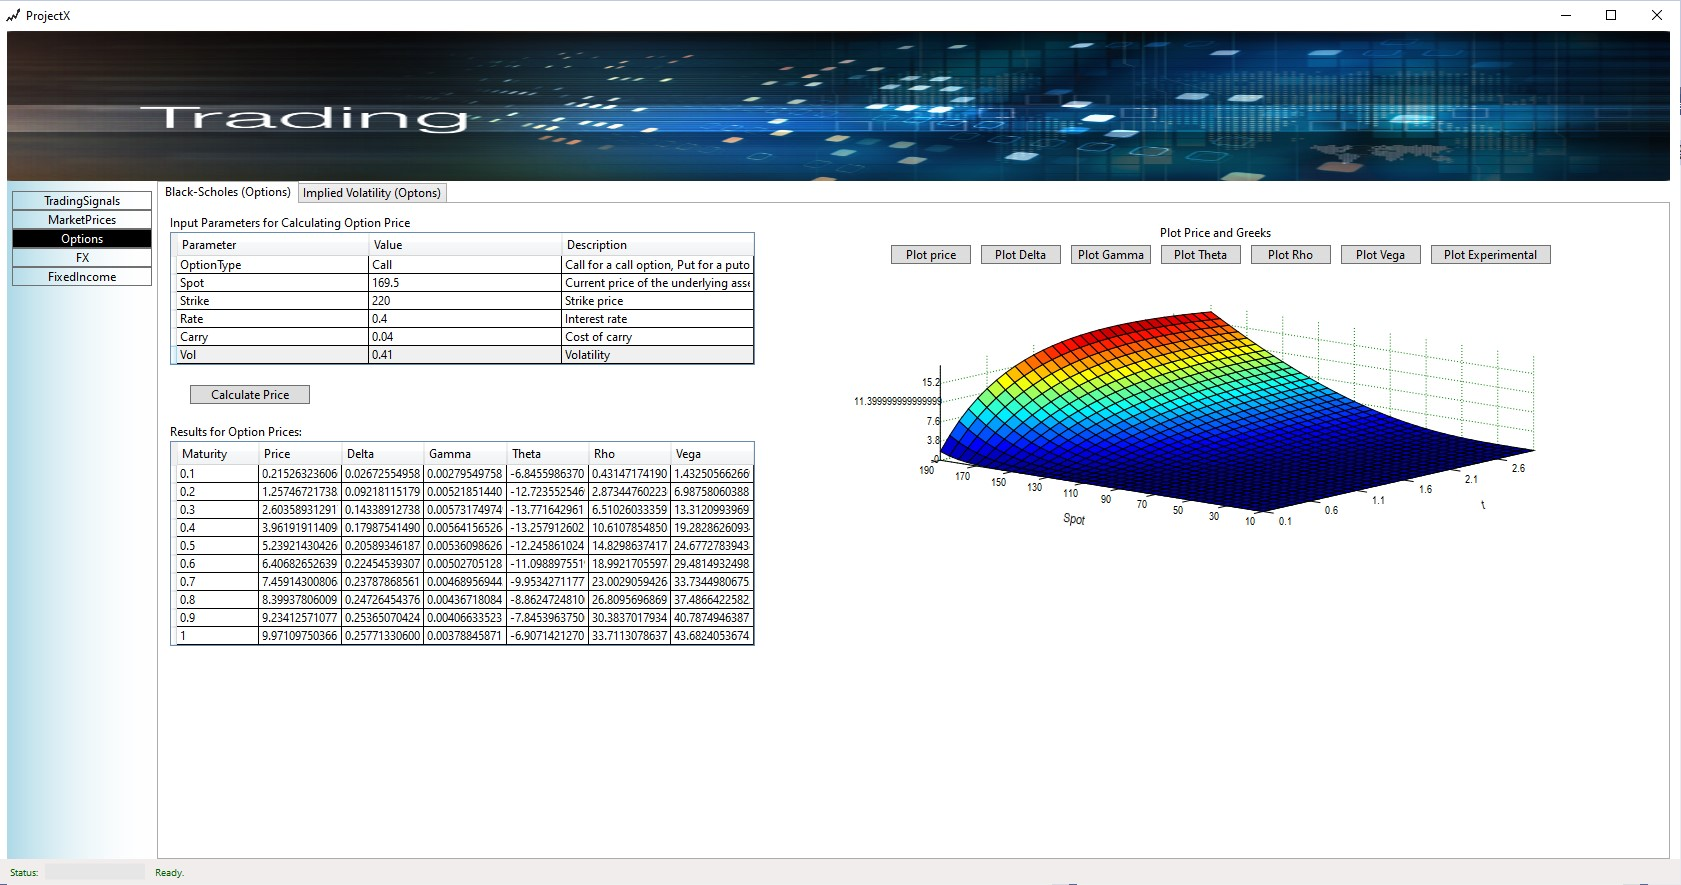
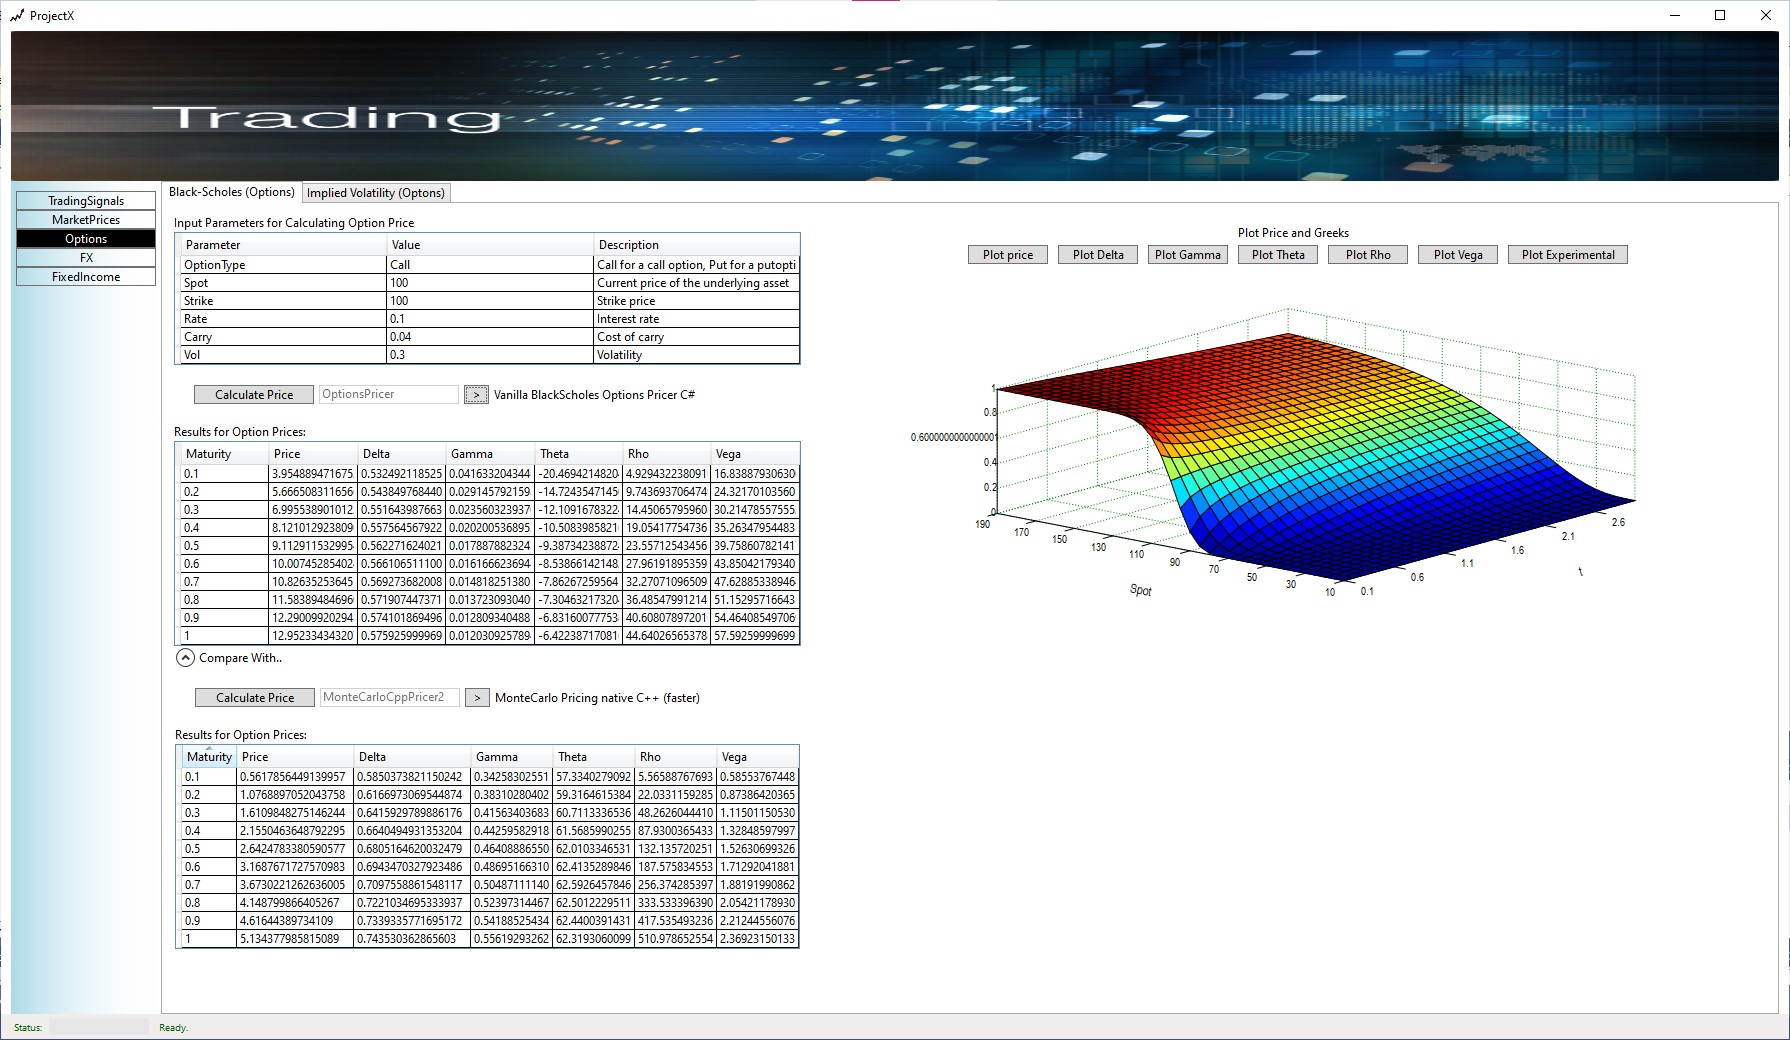
Added comparer pane in UI that allows to do side-by-side comparison with different option calculators

Changed region(s): [[0.0, 0.0, 1.0, 1.0], [0.0, 0.9458, 0.0309, 1.0], [0.0928, 0.9763, 0.1237, 1.0]]

diff --git a/Shell/Screens/Options/BlackScholesPricerView.xaml b/Shell/Screens/Options/BlackScholesPricerView.xaml
@@ -22,6 +22,18 @@
             </StackPanel>
             <TextBlock Text="Results for Option Prices:" Margin="0 20 0 2"/>
             <DataGrid ColumnWidth="*" CanUserAddRows="False" ItemsSource="{Binding OptionTable}"/>
+            <Expander Header="Compare With..">
+                <StackPanel Orientation="Vertical">
+                    <StackPanel Orientation="Horizontal">
+                        <Button x:Name="CalculatePrice2" Content="Calculate Price" Width="120" Margin="20 20 0 0" HorizontalAlignment="Left"/>
+                        <TextBox x:Name="CalculatorType2" Margin="5 20 0 0" Width="140" IsEnabled="False"/>
+                        <Button x:Name="CalculatorTypeToggle2" Width="25" Content=">" Margin="5 20 0 0"/>
+                        <TextBlock x:Name="CalculatorTypeDesc2" Margin="5 20 0 0" HorizontalAlignment="Right" VerticalAlignment="Center" TextAlignment="Center"/>
+                    </StackPanel>
+                    <TextBlock Text="Results for Option Prices:" Margin="0 20 0 2"/>
+                    <DataGrid ColumnWidth="*" CanUserAddRows="False" ItemsSource="{Binding OptionTable2}"/>
+                </StackPanel>
+            </Expander>
         </StackPanel>
         <Grid Grid.Column="1" Margin="10 10 0 0">
             <Grid.RowDefinitions>

diff --git a/Shell/Screens/Options/BlackScholesPricerViewModel.cs b/Shell/Screens/Options/BlackScholesPricerViewModel.cs
@@ -6,6 +6,7 @@ using ProjectX.Core.Requests;
 using System;
 using System.ComponentModel.Composition;
 using System.Data;
+using System.Net.WebSockets;
 using System.Threading;
 using System.Threading.Tasks;
 using System.Windows;
@@ -26,16 +27,34 @@ namespace Shell.Screens.Options
             this._gatewayApiClient = gatewayApiClient;
             DisplayName = "Black-Scholes (Options)";
 
-            OptionTable.Columns.AddRange(new[]
+            static DataColumn[] optionTableHeaders()
             {
-                new DataColumn("Maturity", typeof(double)),
-                new DataColumn("Price", typeof(double)),
-                new DataColumn("Delta", typeof(double)),
-                new DataColumn("Gamma", typeof(double)),
-                new DataColumn("Theta", typeof(double)),
-                new DataColumn("Rho", typeof(double)),
-                new DataColumn("Vega", typeof(double)),
-            });
+                return new[]
+                {
+                    new DataColumn("Maturity", typeof(double)),
+                    new DataColumn("Price", typeof(double)),
+                    new DataColumn("Delta", typeof(double)),
+                    new DataColumn("Gamma", typeof(double)),
+                    new DataColumn("Theta", typeof(double)),
+                    new DataColumn("Rho", typeof(double)),
+                    new DataColumn("Vega", typeof(double)),
+                };
+            }
+            OptionTable.Columns.AddRange(optionTableHeaders());
+            OptionTable2.Columns.AddRange(optionTableHeaders());
+            static void AddSomeBlankData(DataTable optionTable)
+            {
+                double col = 0.1;
+                for (int i = 0; i <= 10; i++)
+                {
+                    var r = optionTable.NewRow();
+                    r[0] = col;
+                    optionTable.Rows.Add(r);
+                    col =+ (double)(i + 1) / 10;
+                }
+            }
+            AddSomeBlankData(OptionTable);
+            AddSomeBlankData(OptionTable2);
 
             OptionInputTable.Columns.AddRange(new[]
             {
@@ -48,8 +67,8 @@ namespace Shell.Screens.Options
             OptionInputTable.Rows.Add("Strike", 100, "Strike price");
             OptionInputTable.Rows.Add("Rate", 0.1, "Interest rate");
             OptionInputTable.Rows.Add("Carry", 0.04, "Cost of carry");
-            OptionInputTable.Rows.Add("Vol", 0.3, "Volatility");            
-        }
+            OptionInputTable.Rows.Add("Vol", 0.3, "Volatility");                     
+        }        
 
         #region Bindable Properties
         private DataTable optionInputTable = new();
@@ -61,6 +80,10 @@ namespace Shell.Screens.Options
         private CancellationTokenSource _cts = new();
         private OptionsPricingCalculatorType _calculatorType = OptionsPricingCalculatorType.OptionsPricer;
         private string _calculatorTypeDesc = "Default pricer";
+
+        private DataTable optionTable2 = new();
+        private OptionsPricingCalculatorType _calculatorType2 = OptionsPricingCalculatorType.OptionsPricerCpp;
+        private string _calculatorTypeDesc2 = "Default c++ pricer";
 
         public BindableCollection<DataSeries3D> DataCollection { get; set; } = new BindableCollection<DataSeries3D>();        
         
@@ -106,24 +129,43 @@ namespace Shell.Screens.Options
             get { return _calculatorTypeDesc; }
             set { _calculatorTypeDesc = value; NotifyOfPropertyChange(() => CalculatorTypeDesc); }
         }
+
+        public DataTable OptionTable2
+        {
+            get { return optionTable2; }
+            set { optionTable2 = value; NotifyOfPropertyChange(() => OptionTable2); }
+        }
+
+        public OptionsPricingCalculatorType CalculatorType2
+        {
+            get { return _calculatorType2; }
+            set { _calculatorType2 = value; NotifyOfPropertyChange(() => CalculatorType2); }
+        }
+
+        public string CalculatorTypeDesc2
+        {
+            get { return _calculatorTypeDesc2; }
+            set { _calculatorTypeDesc2 = value; NotifyOfPropertyChange(() => CalculatorTypeDesc2); }
+        }
         #endregion
         protected override async void OnActivate()
         {
             _cts = new CancellationTokenSource();
 
             await _gatewayApiClient.StartHubAsync();
-            _gatewayApiClient.HubConnection.On<OptionsPricingByMaturityResults>("PricingResults", pricingResult =>
+            _gatewayApiClient.HubConnection.On("PricingResults", (Action<OptionsPricingByMaturityResults>)(pricingResult =>
             {
                 Console.WriteLine($"Received Pricing Result: {pricingResult.ResultsCount} results, requestId: {pricingResult.RequestId}");
                 App.Current.Dispatcher.Invoke((System.Action)delegate
                 {
-                    OptionTable.Clear();
+                    DataTable optionTable = GetOptionTableToModify(pricingResult.AuditTrail.CalculatorType);
+                    optionTable.Clear();
                     foreach (var (maturity, riskResult) in pricingResult.Results)
                     {
-                        OptionTable.Rows.Add(maturity, riskResult.price, riskResult.delta, riskResult.gamma, riskResult.theta, riskResult.rho, riskResult.vega);
+                        optionTable.Rows.Add(maturity, riskResult.price, riskResult.delta, riskResult.gamma, riskResult.theta, riskResult.rho, riskResult.vega);
                     }
                 });
-            });
+            }));
 
             _gatewayApiClient.HubConnection.On<PlotOptionsPricingResult>("PlotResults", plotPricingResult =>
             {
@@ -156,7 +198,20 @@ namespace Shell.Screens.Options
             });
 
             base.OnActivate();
-        }
+            
+            DataTable GetOptionTableToModify(OptionsPricingCalculatorType c)
+            {                
+                if (c == CalculatorType)
+                {
+                    return OptionTable;
+                }
+                else if (c == CalculatorType2)
+                {
+                    return OptionTable2;
+                }
+                throw new Exception($"Can't find which option table to update based on {c}");
+            }
+        }       
 
         protected override async void OnDeactivate(bool close)
         {
@@ -165,26 +220,41 @@ namespace Shell.Screens.Options
             _cts.Cancel();
             await _gatewayApiClient.StopHubAsync();
         }
-
+        public async Task CalculatePrice2()
+        {
+            if(CalculatorType2 == CalculatorType)
+            {
+                MessageBox.Show("You must set different calculator types for comparison");
+                return;
+            }
+            OptionTable2.Clear();
+            await CalculatePrice(CalculatorType2);
+        }
         public async Task CalculatePrice()
-        {            
+        {
+            OptionTable.Clear();
+            await CalculatePrice(CalculatorType);
+        }
+        private async Task CalculatePrice(OptionsPricingCalculatorType calculatorType)
+        {
             try
-            {                
+            {
                 string? optionType = OptionInputTable.Rows[0]["Value"].ToString();
                 double spot = Convert.ToDouble(OptionInputTable.Rows[1]["Value"]);
                 double strike = Convert.ToDouble(OptionInputTable.Rows[2]["Value"]);
                 double rate = Convert.ToDouble(OptionInputTable.Rows[3]["Value"]);
                 double carry = Convert.ToDouble(OptionInputTable.Rows[4]["Value"]);
                 double vol = Convert.ToDouble(OptionInputTable.Rows[5]["Value"]);
-                var request = new OptionsPricingByMaturitiesRequest(10, optionType.ToOptionType(), spot, strike, rate, carry, vol, CalculatorType);
-                OptionTable.Clear();
-                await _gatewayApiClient.SubmitPricingRequest(request, _cts.Token);                                            
+                var request = new OptionsPricingByMaturitiesRequest(10, optionType.ToOptionType(), spot, strike, rate, carry, vol, calculatorType);
+                
+                await _gatewayApiClient.SubmitPricingRequest(request, _cts.Token);
             }
             catch (Exception ex)
             {
                 MessageBox.Show($"Failed to send pricing request to backend to price\nReason:'{ex.Message}", "Calulate Price issue");
-            }            
+            }
         }
+
         public void PlotPrice() => Plot(OptionGreeks.Price, "Price", 1, 1);
         public void PlotDelta() => Plot(OptionGreeks.Delta, "Delta", 1, 1);
         public void PlotGamma() => Plot(OptionGreeks.Gamma, "Gamma", 2, 3);
@@ -224,14 +294,27 @@ namespace Shell.Screens.Options
             ZTick = 4;            
             DataCollection.Add(ds);
         }
+        public void CalculatorTypeToggle2()
+        {
+            (OptionsPricingCalculatorType next, string desc) = NextCalculator(CalculatorType2);
 
+            CalculatorType2 = next;
+            CalculatorTypeDesc2 = desc;
+        }
         public void CalculatorTypeToggle()
-        {            
-            var target = CalculatorType switch
+        {
+            (OptionsPricingCalculatorType next, string desc) = NextCalculator(CalculatorType);
+
+            CalculatorType = next;
+            CalculatorTypeDesc = desc;
+        }        
+        private static (OptionsPricingCalculatorType, string) NextCalculator(OptionsPricingCalculatorType calculatorType)
+        {
+            return calculatorType switch
             {
-                OptionsPricingCalculatorType.OptionsPricer => 
+                OptionsPricingCalculatorType.OptionsPricer =>
                 (
-                    OptionsPricingCalculatorType.OptionsPricerCpp, 
+                    OptionsPricingCalculatorType.OptionsPricerCpp,
                     "BlackScholes Options Pricer native C++"
                 ),
                 OptionsPricingCalculatorType.OptionsPricerCpp =>
@@ -244,17 +327,14 @@ namespace Shell.Screens.Options
                    OptionsPricingCalculatorType.MonteCarloCppPricer2,
                     "MonteCarlo Pricing native C++ (faster)"
                ),
-                OptionsPricingCalculatorType.MonteCarloCppPricer2 => 
+                OptionsPricingCalculatorType.MonteCarloCppPricer2 =>
                 (
-                    OptionsPricingCalculatorType.OptionsPricer, 
+                    OptionsPricingCalculatorType.OptionsPricer,
                     "Vanilla BlackScholes Options Pricer C#"
                 ),
 
                 _ => throw new NotImplementedException(),
             };
-
-            CalculatorType = target.Item1;
-            CalculatorTypeDesc = target.Item2;
         }
     }
 }

diff --git a/ProjectX.Core/Requests/OptionsPricingByMaturityResults.cs b/ProjectX.Core/Requests/OptionsPricingByMaturityResults.cs
@@ -3,11 +3,13 @@ using System.Linq;
 
 namespace ProjectX.Core.Requests
 {
+    public record AuditTrail(OptionsPricingCalculatorType CalculatorType);
     public record MaturityAndOptionGreeksResultPair(double Maturity, OptionGreeksResult OptionGreeks);
 
     public class OptionsPricingByMaturityResults : OptionsPricingResultsBase
     {
         public List<MaturityAndOptionGreeksResultPair> Results { get; }
+        public AuditTrail AuditTrail { get; }
 
         public int ResultsCount
         {
@@ -19,9 +21,10 @@ namespace ProjectX.Core.Requests
         }
         public MaturityAndOptionGreeksResultPair this[int index] => Results[index];        
     
-        public OptionsPricingByMaturityResults(Guid RequestId, List<MaturityAndOptionGreeksResultPair> results) : base(RequestId)
+        public OptionsPricingByMaturityResults(Guid RequestId, List<MaturityAndOptionGreeksResultPair> results, AuditTrail auditTrail) : base(RequestId)
         {
             Results = results;
+            AuditTrail = auditTrail;
         }
 
         public override string ToString() => $"{ResultsCount} results";       

diff --git a/ProjectX.Core.Tests/RoundTripTests.cs b/ProjectX.Core.Tests/RoundTripTests.cs
@@ -21,7 +21,8 @@ namespace ProjectX.Core.Tests
                 { 
                     new (1.0, new OptionGreeksResult(1.0, 1.0, 1.0, 1.0, 1.0, 1.0)),
                     new (3.0, new OptionGreeksResult(5.0, 1.0, 1.0, 1.0, 1.0, 5.0)) 
-                });
+                }, 
+                new AuditTrail(OptionsPricingCalculatorType.OptionsPricerCpp));
             var serialized = JsonConvert.SerializeObject(obj);
             Console.WriteLine($"Json: {serialized}");
             var deserialized = JsonConvert.DeserializeObject<OptionsPricingByMaturityResults>(serialized);

diff --git a/ProjectX.AnalyticsLib/BlackScholesOptionsPricingModel.cs b/ProjectX.AnalyticsLib/BlackScholesOptionsPricingModel.cs
@@ -66,7 +66,7 @@ namespace ProjectX.Core.Services
             {
                 temp.Add(new MaturityAndOptionGreeksResultPair(result.Item1, result.Item2));
             }
-            return new OptionsPricingByMaturityResults(request.Id, temp);            
+            return new OptionsPricingByMaturityResults(request.Id, temp, new AuditTrail(calculatorType));            
         }
 
         private IOptionsGreeksCalculator Calc(OptionsPricingCalculatorType calculatorType)
